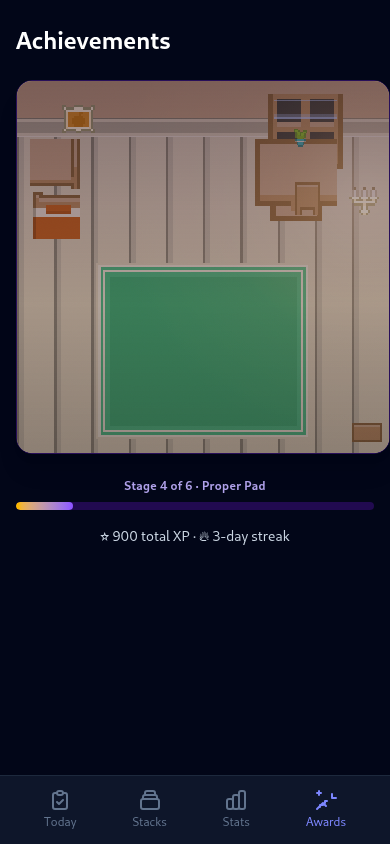
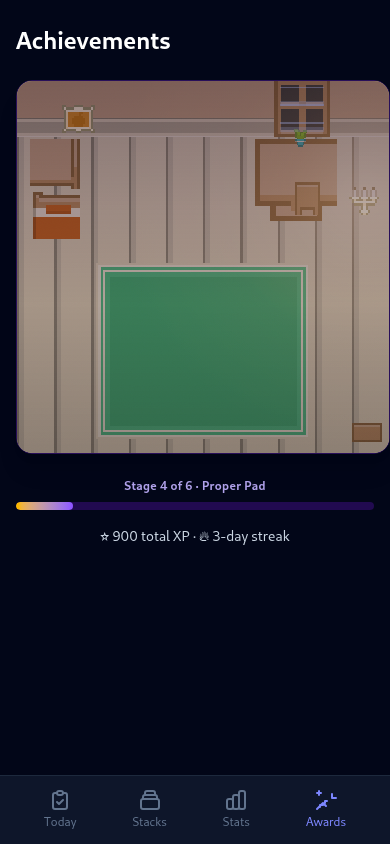
fix: window renders square inside the wall band
All sprites render as squares (side = w tiles); the window declared w2/h1 and hung below the baseboard onto the floor planks, with night rain stopping mid-glass. Re-square it 1.5x1.5 at y0: bottom flush with the floor line, rain now covers ~92% of the glass. Docs renders regenerated.

Changed region(s): [[0.6769, 0.0924, 0.8923, 0.2156]]

diff --git a/src/lib/room/layout.ts b/src/lib/room/layout.ts
@@ -45,7 +45,7 @@ export const TILE_URLS = {
 export const LAMP_SPOT = { x: 9.35, y: 3 } as const;
 
 /** The window (source of the night rain layer), in tile units. */
-export const WINDOW_SPOT = { x: 6.75, y: 0.35, w: 2, h: 1 } as const;
+export const WINDOW_SPOT = { x: 6.9, y: 0, w: 1.5, h: 1.5 } as const;
 
 export interface RoomItem {
 	id: string;
@@ -71,7 +71,7 @@ export interface RoomItem {
  * (30 tiles, ~a third of the floor).
  */
 export const ROOM_ITEMS: RoomItem[] = [
-	{ id: 'window', src: windowImg, x: 6.75, y: 0.35, w: 2, h: 1, stage: 1, alt: 'Night window with four dark panes' },
+	{ id: 'window', src: windowImg, x: 6.9, y: 0, w: 1.5, h: 1.5, stage: 1, alt: 'Night window with four dark panes' },
 	{ id: 'shelf-media', src: shelfEmpty, x: 8.9, y: 0.55, w: 0.85, h: 0.5, stage: 6, alt: 'Media shelf against the wall' },
 	{ id: 'speaker', src: speakerImg, x: 9, y: 0.27, w: 0.6, h: 0.5, stage: 6, alt: 'Speaker sitting on the media shelf' },
 	{ id: 'bookshelf-1', src: bookshelf1, x: 4.2, y: 0.62, w: 0.85, h: 0.5, stage: 5, alt: 'Bookshelf with colorful book spines' },
